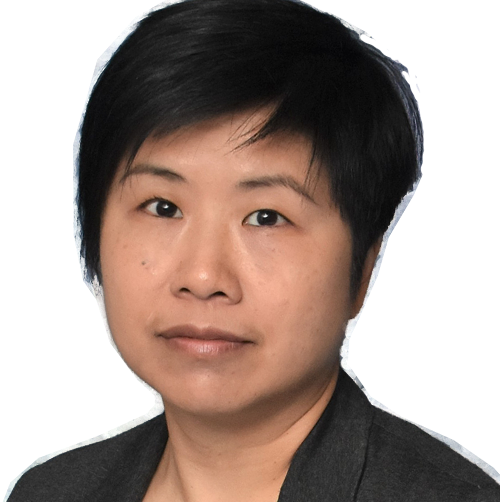
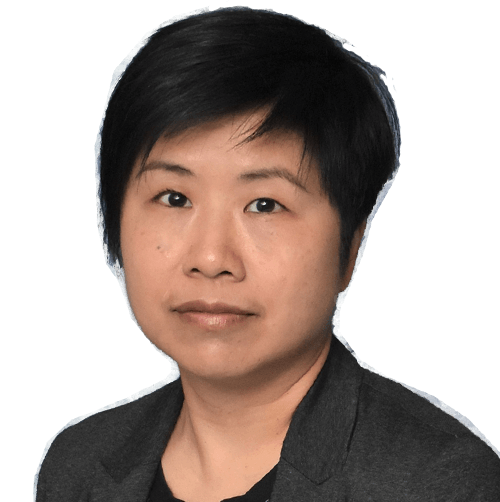
reduce image size and front index

diff --git a/public/stylesheets/style.css b/public/stylesheets/style.css
@@ -301,6 +301,9 @@ body.zh .question-answer>div:last-child::before {
   padding-left: 50px;
   flex-basis: 100%;
 }
+.footer a{
+  color: white;
+}
 
 @media (min-width: 576px) {
   .module>.container, .footer>.container {
@@ -309,6 +312,7 @@ body.zh .question-answer>div:last-child::before {
   .container.section.side-by-side {
     display: flex;
     align-items: stretch;
+    padding-bottom: 50px;
   }
   .container.section.side-by-side>.header {
     flex-basis: 30%;
